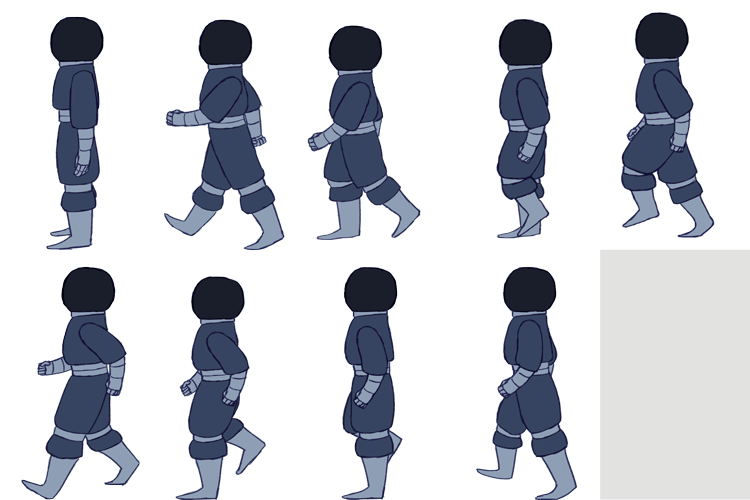
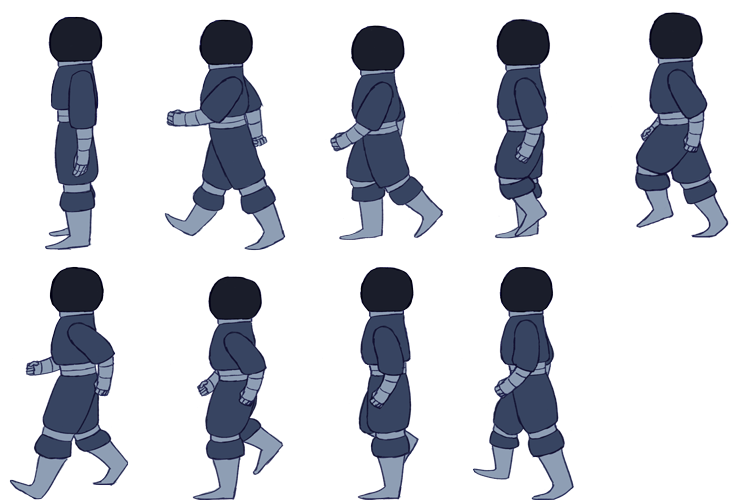
No longer flips at end of walk

diff --git a/player.js b/player.js
@@ -23,6 +23,7 @@
 	walkFrame: 0,
 	walkFrameArray: [],
 	frameCount: 0,
+	direction: 1,
 	//Initialize function for the start of the game
 	init: function() {
 		this.root2 = Math.sqrt( 2.0 ) / 2;
@@ -61,7 +62,7 @@
 			var frameW = this.sizeX * (.1 + this.y/240);
 			var frameH = this.sizeY * (.1 + this.y/240);
 			
-			if(this.x - this.target.x > 0)
+			if( this.direction == -1)
 				drawImage = this.image2;
 			
 			ctx.drawImage(drawImage, this.walkFrameArray[this.walkFrame].x, this.walkFrameArray[this.walkFrame].y, 150, 250, 
@@ -78,9 +79,14 @@
 			if(this.walkFrame > 7)
 				this.walkFrame = 0;
 		} else {
+			var drawImage = this.image;
+		
+			if( this.direction == -1)
+				drawImage = this.image2;
+		
 			var frameW = this.sizeX * (.1 + this.y/240);
 			var frameH = this.sizeY * (.1 + this.y/240);
-			ctx.drawImage(this.image, 0, 0, 150, 250, 
+			ctx.drawImage(drawImage, 0, 0, 150, 250, 
 				this.x - frameW/2, this.y - frameH, frameW, frameH);
 			this.walkFrame = 0;
 		}
@@ -111,6 +117,10 @@
 		this.target.x = x;
 		this.target.y = y;
 		this.moving = true;
+		if( this.x - x > 0)
+			this.direction = -1;
+		else
+			this.direction = 1;
 	},
 	
 	moveToTarget: function() {
